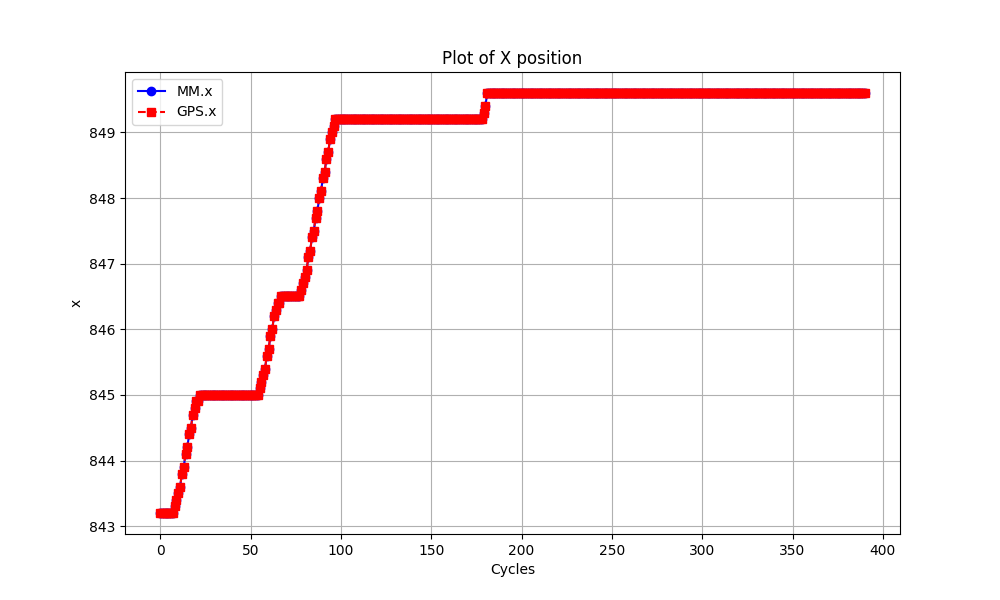
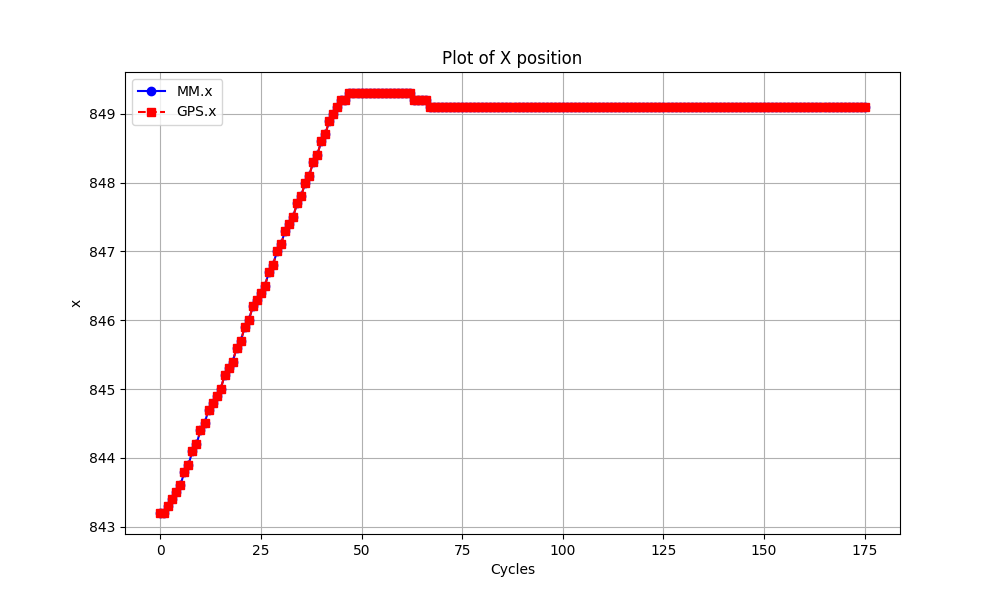
Angle Kalman Filter Topzao

diff --git a/agent/C4/utils/KalmanFilter.py b/agent/C4/utils/KalmanFilter.py
@@ -40,69 +40,112 @@
 
 # ----
 
+# import numpy as np
+
+# class AngleKalmanFilter:
+#     def __init__(self, initial_angle=0.0, initial_uncertainty=1.0):
+#         # State initialization
+#         self.x = np.array([[initial_angle]])  # State (angle in degrees)
+#         self.P = np.array([[initial_uncertainty]])  # State uncertainty
+        
+#         # Measurement noise (compass noise)
+#         self.R = np.array([[0.005555556]])  # Square of noise std for variance (in degrees)
+        
+#         # Process noise (model uncertainty)
+#         self.Q = np.array([[0.1]])  # Can be tuned based on movement model uncertainty (in degrees)
+        
+#         # Measurement matrix
+#         self.H = np.array([[1.0]])  # Direct measurement of angle
+        
+#         # State transition matrix
+#         self.F = np.array([[1.0]])  # Identity for angle
+
+#         self.firstTime = True
+        
+#     def _normalize_angle_degrees(self, angle):
+#         """Normalize angle to [-180, 180] degrees"""
+#         return (angle + 180) % 360 - 180
+        
+#     def predict(self, movement_angle_change=0.0):
+#         """
+#         Predict step using movement model
+#         Args:
+#             movement_angle_change: Change in angle from movement model (in degrees)
+#         """
+#         # State transition
+#         self.x = self.F @ self.x + movement_angle_change
+#         self.x[0,0] = self._normalize_angle_degrees(self.x[0,0])
+        
+#         # Covariance prediction
+#         self.P = self.F @ self.P @ self.F.T + self.Q
+        
+#     def update(self, compass_measurement):
+#         """
+#         Update step using compass measurement
+#         Args:
+#             compass_measurement: Angle measurement from compass (in degrees)
+#         """
+#         # Convert measurement to numpy array if it isn't already
+#         measurement = np.array([[compass_measurement]])
+        
+#         # Normalize angle difference
+#         innovation = measurement - self.H @ self.x
+#         innovation[0,0] = self._normalize_angle_degrees(innovation[0,0])
+        
+#         # Kalman gain
+#         S = self.H @ self.P @ self.H.T + self.R
+#         K = self.P @ self.H.T @ np.linalg.inv(S)
+        
+#         # State update
+#         self.x = self.x + K @ innovation
+#         self.x[0,0] = self._normalize_angle_degrees(self.x[0,0])
+        
+#         # Covariance update
+#         self.P = (np.eye(1) - K @ self.H) @ self.P
+        
+#     def get_estimate(self):
+#         """Return current estimate and uncertainty"""
+#         return float(self.x[0,0]), float(self.P[0,0])
+    
+
 import numpy as np
 
 class AngleKalmanFilter:
-    def __init__(self, initial_angle=0.0, initial_uncertainty=1.0):
-        # State initialization
-        self.x = np.array([[initial_angle]])  # State (angle in degrees)
-        self.P = np.array([[initial_uncertainty]])  # State uncertainty
+    def __init__(self):
+        # State transition matrix (more conservative)
+        self.F = np.array([[1, 0.1],   # Reduce velocity impact
+                           [0, 1]])  # Add damping to acceleration
         
-        # Measurement noise (compass noise)
-        self.R = np.array([[0.005555556]])  # Square of noise std for variance (in degrees)
+        # Process noise covariance (increase to trust predictions less)
+        self.Q = np.array([[0.01, 0],
+                           [0, 0.02]])
         
-        # Process noise (model uncertainty)
-        self.Q = np.array([[0.1]])  # Can be tuned based on movement model uncertainty (in degrees)
+        # Measurement noise covariance (give more weight to measurements)
+        self.R = np.array([[0.1]])
         
-        # Measurement matrix
-        self.H = np.array([[1.0]])  # Direct measurement of angle
-        
-        # State transition matrix
-        self.F = np.array([[1.0]])  # Identity for angle
+        # Initial state uncertainty
+        self.P = np.eye(2) * 500
+
+        self.x_pred = np.array([[0], [0]])  # Initial prediction
+        self.x_updated = np.array([[0], [0]])  # Initial update
 
         self.firstTime = True
-        
-    def _normalize_angle_degrees(self, angle):
-        """Normalize angle to [-180, 180] degrees"""
-        return (angle + 180) % 360 - 180
-        
-    def predict(self, movement_angle_change=0.0):
-        """
-        Predict step using movement model
-        Args:
-            movement_angle_change: Change in angle from movement model (in degrees)
-        """
-        # State transition
-        self.x = self.F @ self.x + movement_angle_change
-        self.x[0,0] = self._normalize_angle_degrees(self.x[0,0])
-        
-        # Covariance prediction
+
+    def predict(self, x):
+        # More conservative prediction
+        x = np.array([[x], [0]])
+
+        self.x_pred = self.F @ x
         self.P = self.F @ self.P @ self.F.T + self.Q
-        
-    def update(self, compass_measurement):
-        """
-        Update step using compass measurement
-        Args:
-            compass_measurement: Angle measurement from compass (in degrees)
-        """
-        # Convert measurement to numpy array if it isn't already
-        measurement = np.array([[compass_measurement]])
-        
-        # Normalize angle difference
-        innovation = measurement - self.H @ self.x
-        innovation[0,0] = self._normalize_angle_degrees(innovation[0,0])
-        
-        # Kalman gain
-        S = self.H @ self.P @ self.H.T + self.R
-        K = self.P @ self.H.T @ np.linalg.inv(S)
-        
-        # State update
-        self.x = self.x + K @ innovation
-        self.x[0,0] = self._normalize_angle_degrees(self.x[0,0])
-        
-        # Covariance update
-        self.P = (np.eye(1) - K @ self.H) @ self.P
-        
+
+    def update(self, z):
+        # Measurement update with more measurement trust
+        H = np.array([[1, 0]])  # Measurement model
+        y = z - H @ self.x_pred
+        S = H @ self.P @ H.T + self.R
+        K = self.P @ H.T @ np.linalg.inv(S)
+        self.x_updated = self.x_pred + K @ y
+        self.P = (np.eye(len(self.x_pred)) - K @ H) @ self.P
+    
     def get_estimate(self):
-        """Return current estimate and uncertainty"""
-        return float(self.x[0,0]), float(self.P[0,0])
+        return self.x_updated,self.x_pred

diff --git a/agent/C4/utils/movement.py b/agent/C4/utils/movement.py
@@ -4,6 +4,11 @@ from constants import *
 from utils.noise_filter import *
 from utils.KalmanFilter import *
 
+def normalize_angle( angle):
+    """Ensure angle is between -180 and 180.""" 
+    normalized_angle = (angle + 180) % 360 - 180
+    return normalized_angle if normalized_angle != -180 else 180
+
 
 class MovementModel:
     def __init__(self, robot_state, wheel_distance: float = 1):
@@ -24,7 +29,8 @@ class MovementModel:
         # self.filtered_y = NoiseFilter(window_size=2)
 
         # measurement_variance = (2**2/360**2) -> covariance
-        self.angle_kalman_filter = AngleKalmanFilter(0, 0.1)
+        #self.angle_kalman_filter = AngleKalmanFilter(0, 0.1)
+        self.angle_kalman_filter = AngleKalmanFilter()
 
     @staticmethod
     def compute_out(input_signal, out_prev):
@@ -50,6 +56,15 @@ class MovementModel:
 
     @staticmethod
     def compute_direction(prev_direction_degrees, rotational_vel):
+
+        # if prev_direction_degrees <= -90 or prev_direction_degrees >= 90:
+        #     print(f"Prev Direction: {prev_direction_degrees}\nRotational Vel: {rotational_vel}")
+        
+        # if prev_direction_degrees < 0:
+        #     prev_direction_degrees = 360 + prev_direction_degrees
+
+        # prev_direction_degrees = normalize_angle(prev_direction_degrees)
+
         prev_direction_radians = math.radians(
             prev_direction_degrees
         )  # Convert degrees to radians
@@ -57,10 +72,11 @@ class MovementModel:
         # TODO: [-PI,PI]
 
 
-
         direction_radians = prev_direction_radians + rotational_vel
 
         direction =  math.degrees(direction_radians)
+
+        #direction = normalize_angle(direction)
 
         # TODO: [-180,180]
 
@@ -121,7 +137,11 @@ class MovementModel:
         else:
             self.angle_kalman_filter.firstTime = False
 
-        filtered_compass,_ = self.angle_kalman_filter.get_estimate()
+        filtered_compass,_ = self.angle_kalman_filter.get_estimate()[0]
+        filtered_compass = int(filtered_compass)
+
+        print(f"Filtered Compass: {filtered_compass}")
+
         # Update direction
         self.robot_state.current_direction = (
             filtered_compass if filtered_compass != -180 else 180
@@ -133,5 +153,5 @@ class MovementModel:
 
        
 
-        
+
    

diff --git a/agent/C4/robot.py b/agent/C4/robot.py
@@ -54,8 +54,6 @@ def signal_handler(sig, frame):
     plt.savefig(f"plot/y_position.png")
     #plt.show()
 
-    plt.close()
-
     plt.figure(figsize=(10, 6))
     plt.plot(noise["compass"][-1000:], marker='o', linestyle='-', color='blue', label="Noise Compass")
     plt.plot(filtered["compass"][-1000:], marker='s', linestyle='--', color='red', label="MM Compass")
